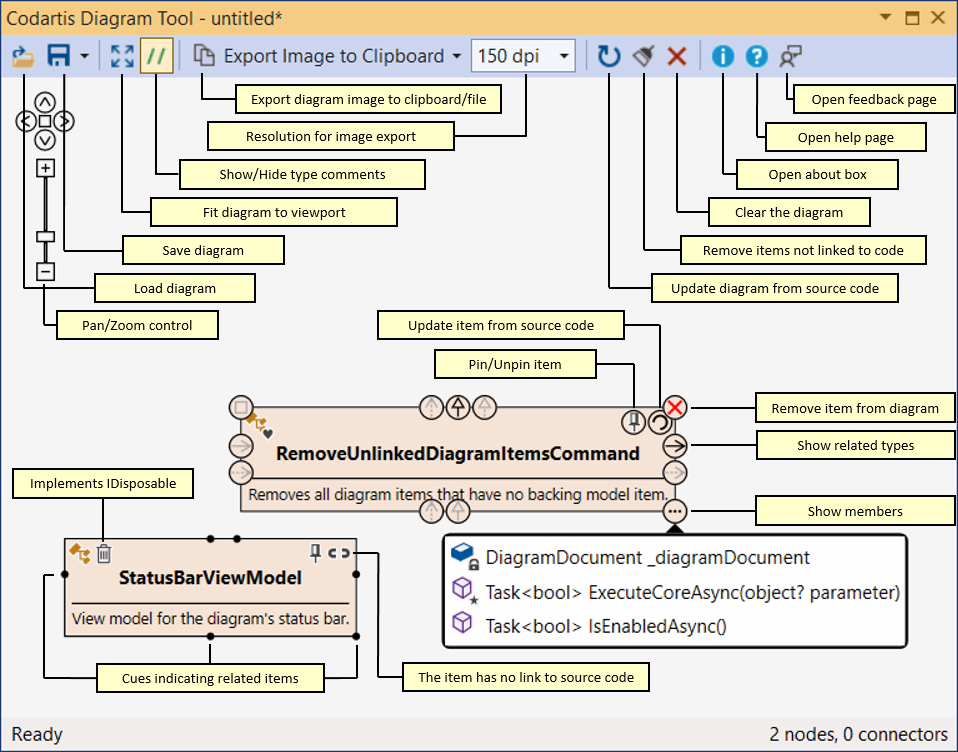
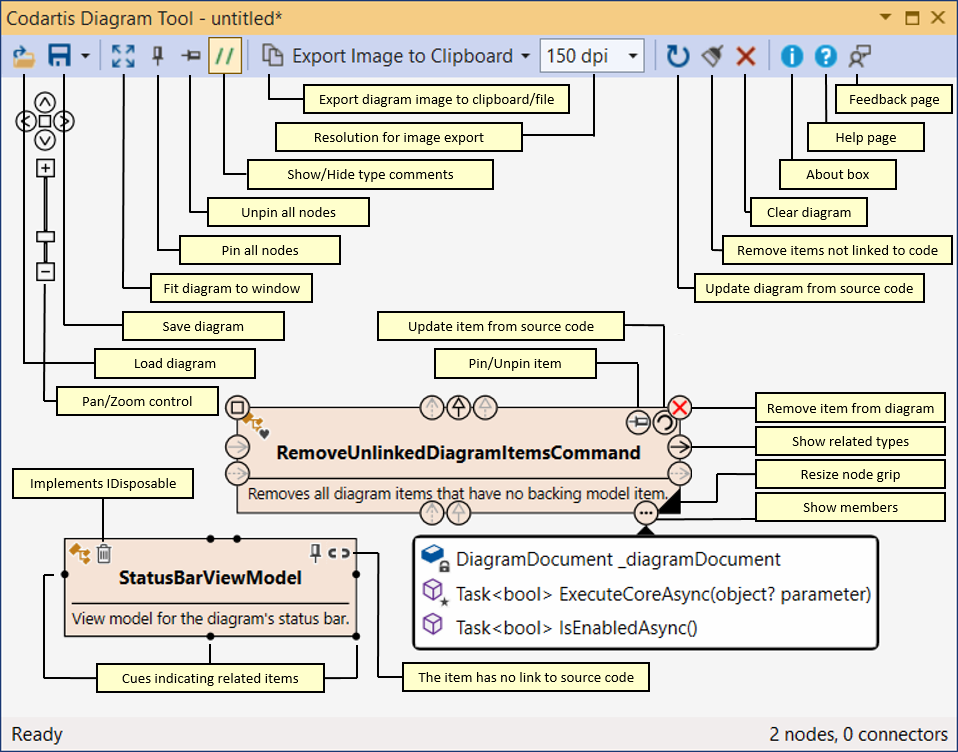
Updated help for v1.4.

Changed region(s): [[0.0, 0.0306, 0.999, 0.887], [0.4238, 0.4282, 0.6357, 0.4894], [0.0605, 0.3059, 0.0908, 0.3364]]

diff --git a/help/Help.md b/help/Help.md
@@ -17,10 +17,12 @@ Codartis Diagram Tool is a Visual Studio extension that creates interactive diag
 - [How to use the tool?](#how-to-use-the-tool)
   - [Controls at a glance](#controls-at-a-glance)
   - [Saving and loading diagrams](#saving-and-loading-diagrams)
-  - [Pan and zoom](#pan-and-zoom)
-  - [Selecting diagram items](#selecting-diagram-items)
-  - [Pinning items](#pinning-items)
-  - [Removing items from the diagram](#removing-items-from-the-diagram)
+  - [Pan](#pan)
+  - [Zoom](#zoom)
+  - [Selecting nodes](#selecting-nodes)
+  - [Resizing nodes](#resizing-nodes)
+  - [Pinning nodes](#pinning-nodes)
+  - [Removing nodes from the diagram](#removing-nodes-from-the-diagram)
   - [Automatic layout and manual adjustments](#automatic-layout-and-manual-adjustments)
   - [Jumping from diagram to source code](#jumping-from-diagram-to-source-code)
   - [Updating the diagram from source code](#updating-the-diagram-from-source-code)
@@ -86,7 +88,17 @@ Make sure that a solution is open otherwise Codartis Diagram Tool may not be ava
   * Adding an entire type hierarchy: **CTRL+SHIFT+D, CTRL+SHIFT+H** 
 
 ### Adding items to diagram from Solution Explorer
-* In the Solution Explorer window right-click on a file or folder
+* **Drag-and-drop** items from the Solution Explorer tree to the Codartis Diagram Tool window.
+  * C# code file (.cs): adds the namespaces and types that are declared in that file.
+  * Folder: adds all C# files in that folder.
+  * Project: adds the project's output assembly.
+  * Solution Folder: adds all projects in that folder.
+
+> The solution node cannot be dragged, but you can add it by right-click > **Add to Codartis Diagram**.
+
+Or
+
+* In the Solution Explorer window right-click on a file, folder, project, solution folder, or the solution node.
   * In the context menu click **Add to Codartis Diagram**
 
 <div align="center"><img src="images/AddToDiagramFromSolutionExplorer.png" alt="Add to Diagram from Solution Explorer"></div>
@@ -94,13 +106,14 @@ Make sure that a solution is open otherwise Codartis Diagram Tool may not be ava
 > Tip: Don't add too many items (eg. whole projects) to a diagram because it will be cluttered and sluggish. About 50 items is a practical limit for both layout speed and comprehension.
 
 ## What can be presented on a diagram?
-Codartis Diagram Tool generates diagrams using the compiler's model of the entities defined in the source code (classes, methods, etc.) The connectors (arrows) on the diagram represent relationships in the static structure of the source code entities (associations, inheritances, etc.)
+Codartis Diagram Tool generates diagrams using the compiler's model of the entities defined in the source code (namespaces, classes, methods, etc.) The connectors (arrows) on the diagram represent relationships in the static structure of the source code entities (associations, inheritances, assembly references, etc.)
 
-Currently the supported entities and relationships are similar to the ones used on [UML class diagrams](https://en.wikipedia.org/wiki/Class_diagram), however in the future we would like to go well beyond that by also modeling higher-level structures (projects, namespaces) and many more low-level relationships (method call, property read/write, object creation, etc.)
+Currently the supported entities and relationships are similar to the ones used on [UML class diagrams](https://en.wikipedia.org/wiki/Class_diagram), plus namespaces and assemblies. However in the future we would like to add more low-level relationships (method call, property read/write, object creation, etc.)
 
 > If you would like to use these planned features then please vote/comment on these discussions:
-> * [Enhance visual exploration of high-level code structures](https://github.com/Codartis/DiagramTool/discussions/7)
 > * [Enhance visual exploration of low-level structures in code](https://github.com/Codartis/DiagramTool/discussions/8)
+> * [Enhance visual exploration of high-level code structures](https://github.com/Codartis/DiagramTool/discussions/7)
+
 
 Using the compiler's model ensures that the diagrams always accurately represent the actual source code contents.
 
@@ -108,6 +121,9 @@ Using the compiler's model ensures that the diagrams always accurately represent
  
 ### Supported entities
 
+* Assemblies
+  * Project output and referenced assemblies.
+* Namespaces
 * All C# types: class, struct, interface, enum, delegate.
   * Note that records are modeled as either class or struct.
 * Generics: type definitions, constructed generic types.
@@ -120,16 +136,17 @@ Using the compiler's model ensures that the diagrams always accurately represent
 * Inheritance
 * Interface implementation
 * Generic type construction, usage as generic type argument
-* Containment (of members)
+* Containment (parent/child)
+* Assembly reference
 
 ### Diagram notation
 Codartis Diagram Tool uses a subset of the standard UML class diagram notation with additional visual hints that are familiar for Visual Studio users (eg. icons for class, struct, etc.)
 
 #### Node types
 
-| Class | Interface | Struct | Enum | Delegate |
-|-------|-----------|--------|------|----------|
-| ![class](images/SampleClass.png) | ![interface](images/SampleInterface.png) | ![stuct](images/SampleStruct.png) | ![enum](images/SampleEnum.png) | ![delegate](images/SampleDelegate.png) |
+| Class | Interface | Struct | Enum | Delegate | Namespace | Assembly |
+|-------|-----------|--------|------|----------|-----------|----------|
+| ![class](images/SampleClass.png) | ![interface](images/SampleInterface.png) | ![stuct](images/SampleStruct.png) | ![enum](images/SampleEnum.png) | ![delegate](images/SampleDelegate.png) | ![delegate](images/SampleNamespace.png) | ![assembly](images/SampleAssembly.png)
 
 Meaning of the different type name formattings:
 * *Italic* means abstract type.
@@ -169,13 +186,13 @@ In the case of "other dependencies", the type of the dependency is indicated wit
 
 ### Controls at a glance
 
-<div align="center"><img src="images/CodartisToolWindowWithHelpTextSmall.png" alt="Codartis Diagram Tool window with help text"></div>
+<div align="center"><img src="images/CodartisToolWindowWithHelpText.png" alt="Codartis Diagram Tool window with help text"></div>
 
 ### Saving and loading diagrams
 * Use the Load Diagram and Save Diagram buttons on the toolbar of the diagram tool window.
 * To save the diagram with a different file name, click the dropdown button next to the save toolbar button, and choose "Save Diagram As...".
 
-<div align="center"><img src="images/SaveLoadButtonsOnToolbar.png" alt="Codartis Diagram Tool window with help text"></div>
+<div align="center"><img src="images/SaveLoadButtonsOnToolbar.png" alt="Save/Load button on toolbar"></div>
 
 * Diagrams are saved into text files, in JSON format, to make it easy to store them in source control systems.
 * The default file extension is ".codartis", but it can be anything.
@@ -189,16 +206,23 @@ Limitations:
 * You have to use the "Load Diagram" and "Save Diagram" buttons on the Codartis Diagram Tool window's toolbar. 
 * If you would like to use multiple diagrams, integrated with Visual Studio's document concept, then please vote/comment on this discussion: [Handling multiple diagrams as Visual Studio documents](https://github.com/Codartis/DiagramTool/discussions/9)
 
-### Pan and zoom
-* Use the mouse: 
-  * Pan by holding down the left mouse button.
-  * Zoom with the mouse wheel.
-* Or use the keyboard (only if the diagram window has the focus): 
+### Pan
+* With mouse: 
+  * Hold down **left** mouse button (while pointing at the diagram background) + move mouse, or
+  * **ALT** + Hold down **left** mouse button + move mouse, or
+  * Hold down **middle** mouse button + move mouse.
+* With keyboard (only if the diagram window has the focus): 
   * Pan with the cursor keys.
-  * Zoom with W and S keys (FPS shooter-style :)
 * Or use the pan and zoom control on the diagram.
 
-### Selecting diagram items
+### Zoom
+* With mouse: 
+  * Turn the mouse wheel.
+* With keyboard (only if the diagram window has the focus): 
+  * Zoom with W and S keys
+* Or use the pan and zoom control on the diagram.
+
+### Selecting nodes
 * Click a diagram node to select/unselect.
   * CTRL+Click or SHIFT+Click: add/remove node to/from selection.
 * Select multiple items with
@@ -208,14 +232,18 @@ Limitations:
   * Select All Nodes (shortcut: CTRL+A)
   * Invert Selection
 
-### Pinning items
+### Resizing nodes
+* Grab and drag the resize handle at the bottom right corner of the diagram nodes.
+* Double-click the resize handle to return the node to its default size.
+
+### Pinning nodes
 Pin nodes to fix their position, so that the automatic layout engine does not try to rearrange them.
 * Use the Pin button on a diagram node to toggle its pin state.
 * Or right-click for the Context Menu
   * Pin Nodes (Selected/All)
   * Unpin Nodes (Selected/All)
 
-### Removing items from the diagram
+### Removing nodes from the diagram
 * Use the Close button on a diagram node to remove it from the diagram.
 * Use the Clear button on the toolbar to remove all diagram items.
 * Or right-click for the Context Menu
